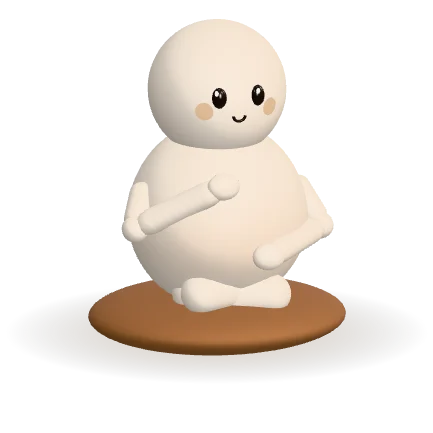
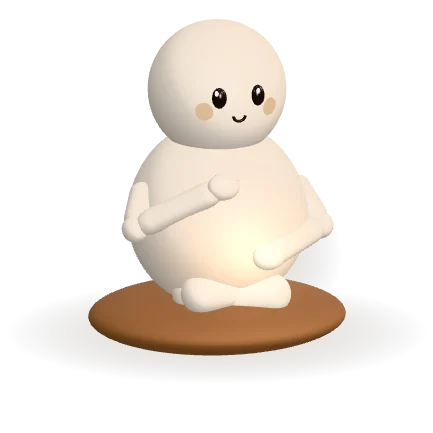
design-v2 hero: the belly glows like an orb on the inhale
The figure's belly now lights from inside as the lungs fill (an emissive orb added to
the body's standard material, plus a soft additive halo in Amber), fades back to bone
on the way out, and darkens a little when the lungs are empty, so the top and the
bottom of each breath (and both box holds) look clearly different. The halo draws
without depth test: with it, the belly's curve cut a dark hole in the flat sprite.
Posters regenerated. figure-v1.js and breath-figure-v1.js keep their names because
they have never been deployed (no edge-cached copy to bust). Not pushed.

Changed region(s): [[0.3903, 0.5104, 0.7206, 0.6905]]

diff --git a/site/js/figure-v1.js b/site/js/figure-v1.js
@@ -1,7 +1,8 @@
 /* "Breathe with me": an original round figure sitting cross-legged on a cushion, built from primitives.
    breath-figure-v1.js drives it from the hero pacer: update(dt, fill, still, phase).
    One hand rests on the chest and stays nearly still, the other rides the belly: the coaching cue for breathing
-   low (diaphragm), not high (chest). The belly pushes forward on the inhale and draws in past rest on the exhale.
+   low (diaphragm), not high (chest). The belly pushes forward on the inhale and draws in past rest on the exhale;
+   a round orb glows from inside it as the lungs fill, fades back to bone on the way out, then darkens a little when empty.
    Eyes follow the pointer (they lead, the mount turns the head after them), blink, and close softly on a hold.
    Clean-room build, kit: ~/.claude/skills/studio-site-design/kits/breath-figure/. Bump the filename when editing. */
 import * as THREE from 'three';
@@ -10,6 +11,8 @@ import { mergeVertices } from 'three/addons/utils/BufferGeometryUtils.js';
 const Z = new THREE.Vector3(0, 0, 1), UP = new THREE.Vector3(0, 1, 0);
 const HEAD_R = 0.56, BELLY_Y = 1.0, RAD = [0.72, 0.72 * 1.06, 0.72 * 0.92];
 const OUT = -0.09, IN = 0.2; // belly travel: drawn in at the bottom of the exhale .. full at the top of the inhale
+const ORB = new THREE.Vector3(0, -0.2, 1).normalize(); // where the belly glows from: the front, a little below centre
+const smooth = (a, b, x) => { const t = Math.min(1, Math.max(0, (x - a) / (b - a))); return t * t * (3 - 2 * t); };
 
 export function buildBreather(colors = {}) {
   const c = { body: '#e8ddd0', cushion: '#8b5e3c', eye: '#1a110e', cheek: '#d4a574', inhale: '#c4935a', glow: '#c4935a', ...colors };
@@ -24,8 +27,16 @@ export function buildBreather(colors = {}) {
 
   const body = new THREE.Group();
   root.add(body);
-  const belly = makeBelly(c.body, c.inhale);
+  const belly = makeBelly(c.body, c.inhale, c.glow);
   body.add(belly.mesh);
+  // The orb's halo: soft light that spills past the belly's outline on the inhale. Drawn last and on top (no depth
+  // test): with depth on, the curve of the belly hid part of the flat sprite and left a dark hole in the glow. Light
+  // washing over the hands is what real light would do anyway.
+  const halo = new THREE.Sprite(new THREE.SpriteMaterial({ map: radialTexture(c.glow), transparent: true, depthWrite: false,
+    depthTest: false, blending: THREE.AdditiveBlending, opacity: 0, toneMapped: false }));
+  halo.scale.setScalar(1.5);
+  halo.renderOrder = 10;
+  body.add(halo);
   for (const side of [-1, 1]) { // crossed legs, one resting on the other
     const leg = new THREE.Mesh(new THREE.CapsuleGeometry(0.17, 0.62, 8, 16), skin);
     leg.rotation.set(0, side * 0.34, Math.PI / 2);
@@ -97,9 +108,14 @@ export function buildBreather(colors = {}) {
     press() { s.press = 0; },
     update(dt, fill, still, phase) {
       const d = OUT + (IN - OUT) * fill;
-      belly.breathe(d, fill);
+      // Inhale: the orb lights up from about a third full. Exhale: it fades back to bone, then the belly darkens a
+      // little as the lungs empty, so the bottom of the breath (and a box hold down there) reads as empty.
+      const lit = smooth(0.3, 1, fill), empty = 1 - smooth(0, 0.3, fill);
+      belly.breathe(d, lit, empty);
       placeHands(d);
-      glow.material.opacity = 0.2 + 0.28 * fill; // the floor glow swells with the breath
+      belly.surface(ORB, d, halo.position).addScaledVector(ORB, 0.05);
+      halo.material.opacity = 0.75 * lit;
+      glow.material.opacity = 0.12 + 0.45 * lit; // the floor glow swells with the breath
       head.position.y = 1.62 + 0.035 * fill; // the head rides up a little as the torso fills
       s.gx += (s.tx - s.gx) * Math.min(1, dt * 12);
       s.gy += (s.ty - s.gy) * Math.min(1, dt * 12);
@@ -132,33 +148,46 @@ function bellyWeight(u) {
   return low * (0.12 + 0.88 * Math.max(0, u.z) ** 1.5);
 }
 
-// The body: one welded ellipsoid. breathe(d, fill) moves every vertex along its direction by d * weight and warms
-// the belly toward the inhale colour; surface(dir, d, out) gives the moving surface point in that direction.
-function makeBelly(bodyColor, inhaleColor) {
+// The body: one welded ellipsoid. breathe(d, glow, dark) moves every vertex along its direction by d * weight, lights
+// a round orb on the front of the belly (emissive, added to the standard material's shader) as the lungs fill, and
+// shades the belly a little darker when they are empty. surface(dir, d, out) gives the moving surface point.
+function makeBelly(bodyColor, inhaleColor, glowColor) {
   let geo = new THREE.SphereGeometry(1, 64, 48);
   geo.deleteAttribute('uv');
   geo.deleteAttribute('normal');
   geo = mergeVertices(geo); // weld the seam so recomputed normals stay smooth
   geo.scale(...RAD);
   const pos = geo.attributes.position, n = pos.count;
-  const base = Float32Array.from(pos.array), dir = new Float32Array(n * 3), weight = new Float32Array(n);
+  const base = Float32Array.from(pos.array), dir = new Float32Array(n * 3), weight = new Float32Array(n), orb = new Float32Array(n);
   const colors = new Float32Array(n * 3), a = new THREE.Color(bodyColor), b = new THREE.Color(inhaleColor), v = new THREE.Vector3();
   for (let i = 0; i < n; i++) {
     v.fromArray(base, i * 3).normalize();
     v.toArray(dir, i * 3);
     weight[i] = bellyWeight(v);
+    orb[i] = Math.max(0, v.dot(ORB)) ** 3; // a round spot on the front of the belly, brightest in the middle
   }
   geo.setAttribute('color', new THREE.BufferAttribute(colors, 3));
-  const mesh = new THREE.Mesh(geo, new THREE.MeshStandardMaterial({ color: 0xffffff, vertexColors: true, roughness: 0.62 }));
+  geo.setAttribute('orb', new THREE.BufferAttribute(orb, 1));
+  const material = new THREE.MeshStandardMaterial({ color: 0xffffff, vertexColors: true, roughness: 0.62 });
+  const uGlow = { value: 0 }, uGlowColor = { value: new THREE.Color(glowColor) };
+  material.onBeforeCompile = (sh) => { // light from inside: emissive = glow colour x orb shape x how full the lungs are
+    sh.uniforms.uGlow = uGlow;
+    sh.uniforms.uGlowColor = uGlowColor;
+    sh.vertexShader = 'attribute float orb;\nvarying float vOrb;\n' + sh.vertexShader.replace('#include <begin_vertex>', '#include <begin_vertex>\n  vOrb = orb;');
+    sh.fragmentShader = 'uniform float uGlow;\nuniform vec3 uGlowColor;\nvarying float vOrb;\n' +
+      sh.fragmentShader.replace('#include <emissivemap_fragment>', '#include <emissivemap_fragment>\n  totalEmissiveRadiance += uGlowColor * (vOrb * uGlow);');
+  };
+  const mesh = new THREE.Mesh(geo, material);
   mesh.position.y = BELLY_Y;
-  function breathe(d, fill) {
+  function breathe(d, glow, dark) {
     for (let i = 0; i < n; i++) {
-      const k = d * weight[i], g = 0.4 * fill * weight[i];
+      const k = d * weight[i], g = 0.35 * glow * orb[i], m = 1 - 0.3 * dark * weight[i];
       for (let j = 0; j < 3; j++) pos.array[i * 3 + j] = base[i * 3 + j] + dir[i * 3 + j] * k;
-      colors[i * 3] = a.r + (b.r - a.r) * g;
-      colors[i * 3 + 1] = a.g + (b.g - a.g) * g;
-      colors[i * 3 + 2] = a.b + (b.b - a.b) * g;
+      colors[i * 3] = (a.r + (b.r - a.r) * g) * m;
+      colors[i * 3 + 1] = (a.g + (b.g - a.g) * g) * m;
+      colors[i * 3 + 2] = (a.b + (b.b - a.b) * g) * m;
     }
+    uGlow.value = 1.35 * glow;
     pos.needsUpdate = true;
     geo.attributes.color.needsUpdate = true;
     geo.computeVertexNormals();
@@ -168,7 +197,7 @@ function makeBelly(bodyColor, inhaleColor) {
     const p = out.copy(u).multiplyScalar(r), w = bellyWeight(p.clone().normalize());
     return p.addScaledVector(p.clone().normalize(), d * w).add(mesh.position);
   }
-  breathe(0, 0.4);
+  breathe(0, 0, 0);
   return { mesh, breathe, surface };
 }
 
@@ -180,7 +209,7 @@ function onSurface(mesh, yaw, pitch, r) {
   return mesh;
 }
 
-function groundGlow(color) {
+function radialTexture(color) { // a soft round light: colour in the middle, fading to nothing at the edge
   const cv = document.createElement('canvas');
   cv.width = cv.height = 128;
   const ctx = cv.getContext('2d'), grad = ctx.createRadialGradient(64, 64, 0, 64, 64, 64);
@@ -190,8 +219,12 @@ function groundGlow(color) {
   ctx.fillRect(0, 0, 128, 128);
   const tex = new THREE.CanvasTexture(cv);
   tex.colorSpace = THREE.SRGBColorSpace;
+  return tex;
+}
+
+function groundGlow(color) {
   const glow = new THREE.Mesh(new THREE.PlaneGeometry(3.4, 3.4),
-    new THREE.MeshBasicMaterial({ map: tex, transparent: true, depthWrite: false, blending: THREE.AdditiveBlending, opacity: 0.35, toneMapped: false }));
+    new THREE.MeshBasicMaterial({ map: radialTexture(color), transparent: true, depthWrite: false, blending: THREE.AdditiveBlending, opacity: 0.35, toneMapped: false }));
   glow.name = 'GroundGlow';
   glow.rotation.x = -Math.PI / 2;
   glow.position.y = 0.01;

diff --git a/site/js/breath-figure-v1.js b/site/js/breath-figure-v1.js
@@ -34,7 +34,7 @@ function start() {
   scene.add(key);
 
   const fig = buildBreather({
-    body: css('--text'), cushion: css('--clay'), cheek: css('--gold-2'), eye: css('--bg'), inhale: css('--gold'), glow: css('--gold'),
+    body: css('--text'), cushion: css('--clay'), cheek: css('--gold-2'), eye: css('--bg'), inhale: css('--gold'), glow: css('--gold-2'),
   });
   scene.add(fig.root);
   const camera = new THREE.OrthographicCamera(-1, 1, 1, -1, 0.1, 100);

diff --git a/DESIGN.md b/DESIGN.md
@@ -62,8 +62,9 @@ The breath pacer (`site/js/pacer-v3.js`), one timing engine used twice:
 - Hero, "Breathe with me" (2026-10-15): the page's ONE 3D moment is a round figure on a cushion (`site/js/figure-v1.js`,
   mounted by `breath-figure-v1.js`, three.js 0.186.1 from the pinned import map; it replaced the web-3d `breath`
   shader rings, whose files are kept unused). The pacer's fill drives the belly (forward and warm on the inhale, drawn
-  in past rest on the exhale), one hand on the chest stays nearly still while the hand on the belly rides it, and the
-  eyes close softly on a hold. Eyes follow the pointer; a tap on the figure starts the pacer. Patterns: Resonance
+  in past rest on the exhale), a round orb glows from inside the belly as it fills (emissive light plus a soft halo,
+  Amber), fades back to bone on the way out and darkens a little when empty, one hand on the chest stays nearly still
+  while the hand on the belly rides it, and the eyes close softly on a hold. Eyes follow the pointer; a tap on the figure starts the pacer. Patterns: Resonance
   (5.5 in, 5.5 out, the default; the app's name for 5.5/5.5, since the app's "Coherent Breathing" is 6/6) and Box
   (4 in, 4 hold, 4 out, 4 hold). The cue pill under the cushion shows the phase word and whole seconds; the step
   track under it lists every step with the current one filling. All of it is HTML except the figure. Posters
